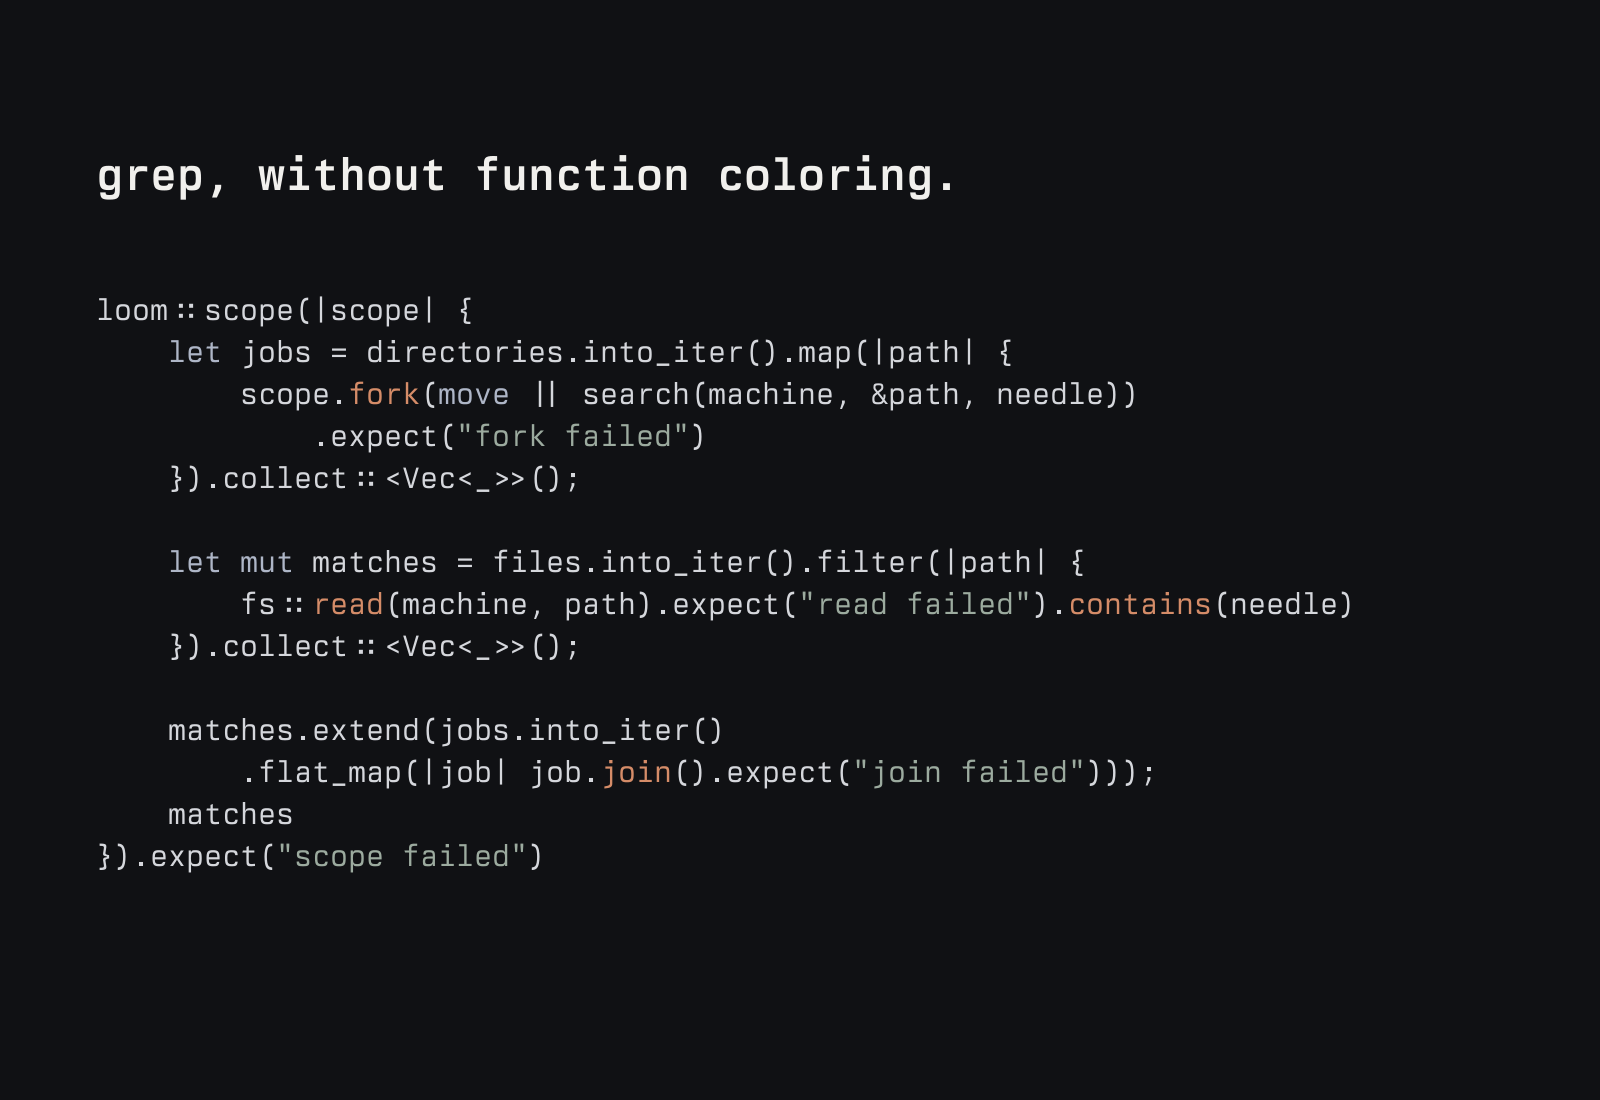
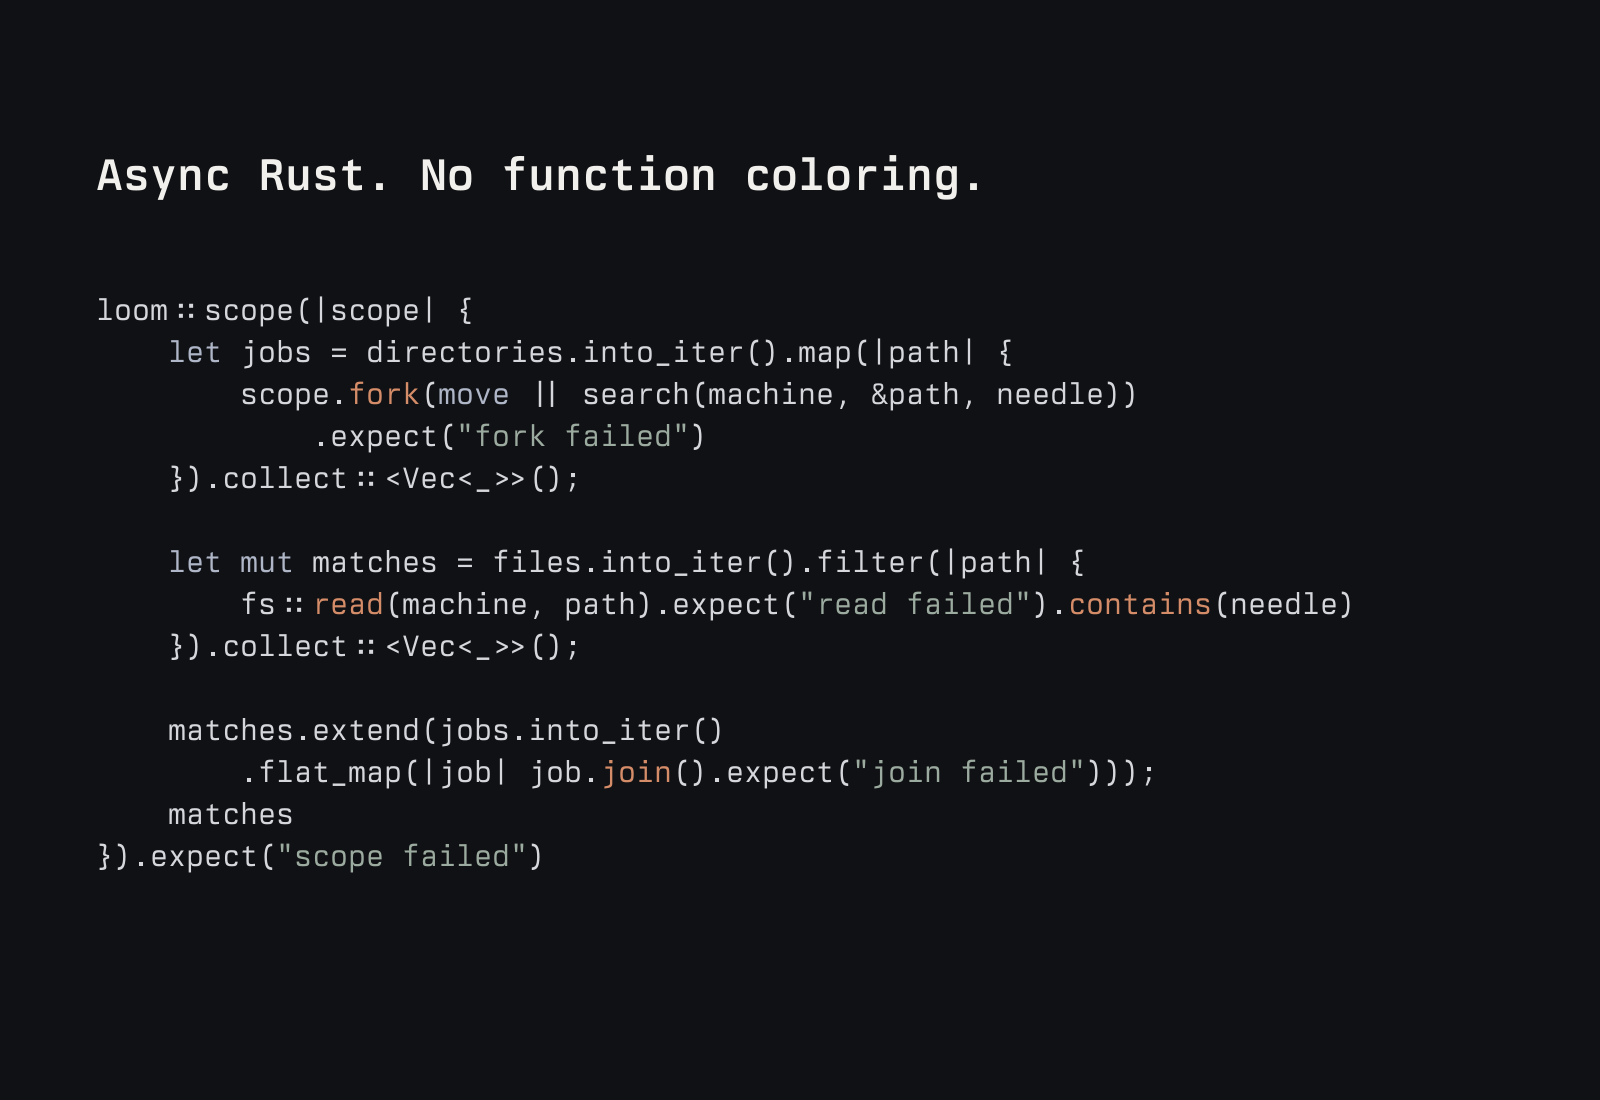
z

Changed region(s): [[0.0625, 0.1236, 0.625, 0.1855]]

diff --git a/scripts/bench/largest.ts b/scripts/bench/largest.ts
@@ -40,7 +40,10 @@ let passed=0;
 const failures:string[]=[];
 interface Gate {name:string;pass:boolean;detail:string}
 const gates:Gate[]=[];
-const totalChecks=12;
+const variantNames=(process.env.LOOM_BENCH_VARIANTS??'all,fork').split(',');
+assert(variantNames.length>0&&new Set(variantNames).size===variantNames.length
+  &&variantNames.every(name=>['all','fork','scoped'].includes(name)),'Invalid LOOM_BENCH_VARIANTS');
+const totalChecks=2+5*variantNames.length;
 function gate(ok:boolean, name:string,detail='') {gates.push({name,pass:ok,detail});if(ok)passed++;else failures.push(name);}
 function counter(stats:Record<string,unknown>, key:string):number {const value=stats[key];return typeof value==='number' && Number.isFinite(value) && value>=0 ? value : Number.NaN;}
 try {
@@ -51,7 +54,7 @@ try {
   gate(true,'native correctness','10000 files, tie and symlink control');
   const machine=object(await command('machine.create',{root:fixture}));
   const existing=process.env.LOOM_BENCH_HASHES?object(JSON.parse(process.env.LOOM_BENCH_HASHES)):{};
-  for(const name of ['all','fork']) {
+  for(const name of variantNames) {
     let hash=existing[name];
     if(hash===undefined) {
     const source=await readFile(new URL(`largest-${name}.rs`,import.meta.url),'utf8');
@@ -78,7 +81,7 @@ try {
     await writeFile(join(mutation,'winner.dat'),new Uint8Array(16387+round));
     const expected={path:'nested/middle/deep/benchmark-child/winner.dat',size:16387+round};
     // Rotate order; every variant checks the changed winner, never a cached old answer.
-    const names=round%2===0?['native','all','fork']:['fork','all','native'];
+    const names=round%2===0?['native',...variantNames]:[...variantNames].reverse().concat('native');
     for(const name of names) {
       if(name==='native') {
         const result=await nativeScan();same(result,expected);
@@ -101,7 +104,7 @@ try {
       }
     }
   }
-  gate(true,'changing winners','all seven changes match native for both variants');
+  gate(true,'changing winners','all seven changes match native for every variant');
   function median(samples:number[]) {return [...samples].sort((a,b)=>a-b)[Math.floor(samples.length/2)]!;}
   // Growth is measured on identical scans after the changing-winner controls.
   // SQLite allocated pages include indexes; CAS payload bytes alone are insufficient.

diff --git a/scripts/bench/largest-scoped.rs b/scripts/bench/largest-scoped.rs
@@ -1,0 +1,54 @@
+#[derive(serde::Serialize, serde::Deserialize)]
+pub struct Winner {
+    path: String,
+    size: i64,
+}
+
+#[loom::def]
+pub fn main(machine: String, path: String) -> Winner {
+    scan(&machine, &path)
+}
+
+fn scan(machine: &str, path: &str) -> Winner {
+    let entries = loom::abilities::fs::list(machine, path)
+        .expect("directory listing failed");
+    loom::scope(|scope| {
+        let mut best = Winner { path: String::new(), size: -1 };
+        let mut jobs = Vec::new();
+        for entry in entries {
+            match entry.kind {
+                loom::EntryKind::Directory => {
+                    let name = entry.name;
+                    let full = format!("{path}/{name}");
+                    jobs.push(scope.fork(move || {
+                        let mut child = scan(machine, &full);
+                        if child.size >= 0 {
+                            child.path = format!("{name}/{}", child.path);
+                        }
+                        child
+                    }).expect("fork failed"));
+                }
+                loom::EntryKind::File => merge(
+                    &mut best,
+                    &entry.name,
+                    i64::try_from(entry.size).expect("file size exceeds i64"),
+                ),
+                _ => {}
+            }
+        }
+        for job in jobs {
+            let child = job.join().expect("join failed");
+            if child.size >= 0 {
+                merge(&mut best, &child.path, child.size);
+            }
+        }
+        best
+    }).expect("scope failed")
+}
+
+fn merge(best: &mut Winner, path: &str, size: i64) {
+    if size > best.size || (size == best.size && path < best.path.as_str()) {
+        best.path = path.into();
+        best.size = size;
+    }
+}

diff --git a/scripts/render-social.py b/scripts/render-social.py
@@ -82,7 +82,7 @@ def main() -> None:
         assert cursor <= WIDTH - 80, f"Text overflow: {text}"
         return cursor
 
-    write("grep, without function coloring.", 96, 190, 45, "#f1f0ed", bold)
+    write("Async Rust. No function coloring.", 96, 190, 45, "#f1f0ed", bold)
 
     tokens = re.compile(r'("[^"\n]*"|\b(?:let|mut|for|in|if|move)\b|\b(?:fork|join|read|contains)(?=\())')
     for index, line in enumerate(excerpt.splitlines()):
@@ -105,7 +105,7 @@ def main() -> None:
             definitions.append(f'<path id="{identity}" d="{html.escape(path, quote=True)}"/>')
     svg = '\n'.join([
         f'<svg xmlns="http://www.w3.org/2000/svg" width="{WIDTH}" height="{HEIGHT}" viewBox="0 0 {WIDTH} {HEIGHT}" role="img">',
-        '<title>Loom: recursive text search without function coloring</title>',
+        '<title>Async Rust. No function coloring.</title>',
         '<desc>Berkeley Mono with liga and calt shaping. Code excerpt from the runnable Rust example.</desc>',
         '<metadata>' + html.escape(excerpt) + '</metadata>',
         '<defs>' + ''.join(definitions) + '</defs>',

diff --git a/crates/loomd/src/main.rs b/crates/loomd/src/main.rs
@@ -1,4 +1,5 @@
 mod static_files;
+use axum::serve::ListenerExt;
 use clap::Parser;
 use std::{path::PathBuf, process::ExitCode, sync::Arc};
 
@@ -109,6 +110,13 @@ async fn serve() -> anyhow::Result<()> {
         .fallback_service(static_files::router(ui));
     let listener = tokio::net::TcpListener::bind(args.bind).await?;
     eprintln!("loomd listening on {}", listener.local_addr()?);
+    // MCP streams headers before its result. Nagle plus delayed acknowledgments
+    // otherwise adds a ~40 ms floor even to an empty loopback request on Linux.
+    let listener = listener.tap_io(|stream| {
+        if let Err(error) = stream.set_nodelay(true) {
+            eprintln!("failed to disable TCP buffering for an accepted connection: {error}");
+        }
+    });
     axum::serve(listener, app)
         .with_graceful_shutdown(shutdown.wait())
         .await?;
